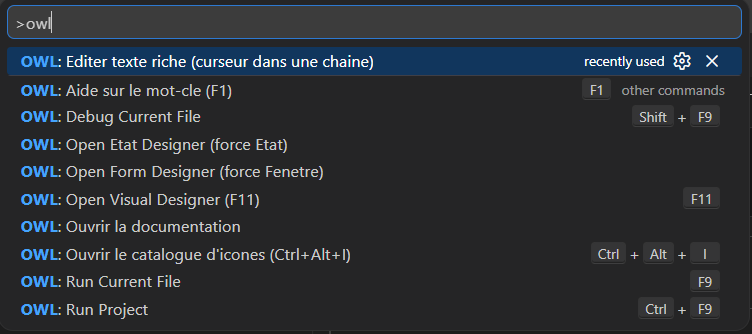
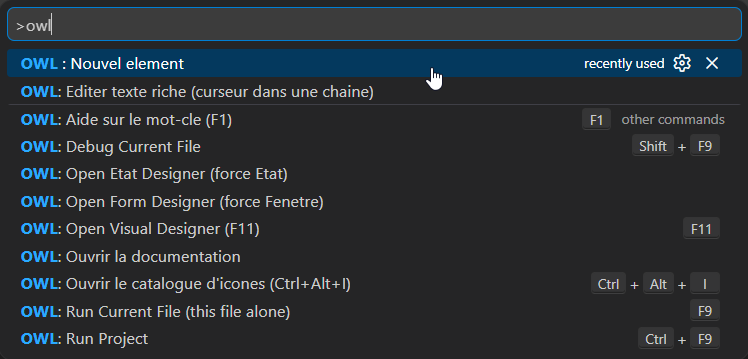
Release 1.0.2 : maj README / assets publics

diff --git a/README.en.md b/README.en.md
@@ -98,10 +98,19 @@ Shortcuts provided by the extension:
 | `Ctrl+Alt+i` | Open the icon catalog |
 
 All framework commands are also gathered in VS Code's **command palette**: press
-`Ctrl+Shift+P`, then type `OWL` to list them (run, debug, designers,
-documentation, icon catalog…), each with its shortcut — nothing to memorize.
+`Ctrl+Shift+P`, then type `OWL` to list them (create an element, run, debug,
+designers, documentation, icon catalog…), each with its shortcut — nothing to
+memorize.
 
 ![OWL commands in the VS Code command palette](images/palette-commandes.png)
+
+**Create without typing it all** — the **New element** command in the palette
+opens a creation menu: pick a template — window, report, class, field — and the
+skeleton is generated and opened in the editor. For a window, you choose the
+field layout; for a report, the page format and orientation. (Command-line
+equivalent: `owl new`.)
+
+![The "New element" creation menu](images/nouvel-element.png)
 
 **Window designer** — a window is declared in its own `.owl` file, starting from
 a minimal skeleton:
@@ -132,6 +141,12 @@ insertable directly from the editor (or from the command line with `owl icons`):
 
 ![Built-in icon catalog](images/catalogue-icones.png)
 
+**Choose the assistance language** — `Ctrl+,` opens the settings; type `OWL` and
+set **Owl: Language** (`fr` or `en`). The whole assistance then switches to the
+chosen language: autocompletion, hover help and diagnostics.
+
+![OWL extension language setting](images/settings-langue.png)
+
 ---
 
 ## Code organization
@@ -140,7 +155,8 @@ OWL links `.owl` files automatically, with no imports to declare. No
 import/include to manage. A file's scope is determined at three levels:
 
 - **Script** — the default mode: one or more flat `.owl` files.
-  `owl mon_fichier.owl` runs the targeted file.
+  `owl mon_fichier.owl` runs the targeted file (and initializes its folder
+  neighbors). `owl mon_fichier.owl --single` runs it **alone**, without neighbors.
 - **Entry point** — a `main.owl` file containing a `main()` procedure
   designates, by convention, the entry point of a set of files; `owl` with no
   argument runs it.

diff --git a/README.md b/README.md
@@ -99,10 +99,18 @@ Raccourcis fournis par l'extension :
 
 Toutes les commandes du framework sont aussi regroupées dans la **palette de
 commandes** de VS Code : `Ctrl+Shift+P`, puis tapez `OWL` pour les lister
-(exécution, débogage, designers, documentation, catalogue d'icônes…), chacune
-avec son raccourci — rien à mémoriser.
+(création d'un élément, exécution, débogage, designers, documentation, catalogue
+d'icônes…), chacune avec son raccourci — rien à mémoriser.
 
 ![Commandes OWL dans la palette de VS Code](images/palette-commandes.png)
+
+**Créer sans tout taper** — la commande **OWL : Nouvel élément** (dans la palette)
+ouvre un menu de création : choisissez un modèle — fenêtre, état, classe, champ —
+et le squelette est généré puis ouvert dans l'éditeur. Pour une fenêtre, vous
+choisissez la disposition des champs ; pour un état, le format de page et
+l'orientation. (Équivalent en ligne de commande : `owl new`.)
+
+![Menu de création « Nouvel élément »](images/nouvel-element.png)
 
 **Designer de fenêtre** — une fenêtre se déclare dans son propre fichier `.owl`,
 à partir d'un squelette minimal :
@@ -134,6 +142,12 @@ et insérables directement depuis l'éditeur (ou en ligne de commande avec
 
 ![Catalogue d'icônes intégré](images/catalogue-icones.png)
 
+**Choisir la langue de l'assistance** — `Ctrl+,` ouvre les réglages ; tapez `OWL`
+et réglez **Owl: Language** (`fr` ou `en`). Toute l'assistance bascule alors dans
+la langue choisie : autocomplétion, aide au survol et diagnostics.
+
+![Réglage de la langue de l'extension OWL](images/settings-langue.png)
+
 ---
 
 ## Organisation du code
@@ -141,7 +155,8 @@ et insérables directement depuis l'éditeur (ou en ligne de commande avec
 Owl lie les fichiers `.owl` automatiquement, sans imports à déclarer. Aucun import/include à gérer. Le périmètre d'un fichier se détermine en trois niveaux :
 
 - **Script** — le mode par défaut : un ou plusieurs fichiers `.owl` à plat.
-  `owl mon_fichier.owl` exécute le fichier visé.
+  `owl mon_fichier.owl` exécute le fichier visé (et initialise ses voisins
+  du dossier). `owl mon_fichier.owl --single` l'exécute **seul**, sans les voisins.
 - **Point d'entrée** — un fichier `main.owl` contenant une procédure `main()`
   désigne, par convention, le point d'entrée d'un ensemble de fichiers ; `owl`
   sans argument le lance.